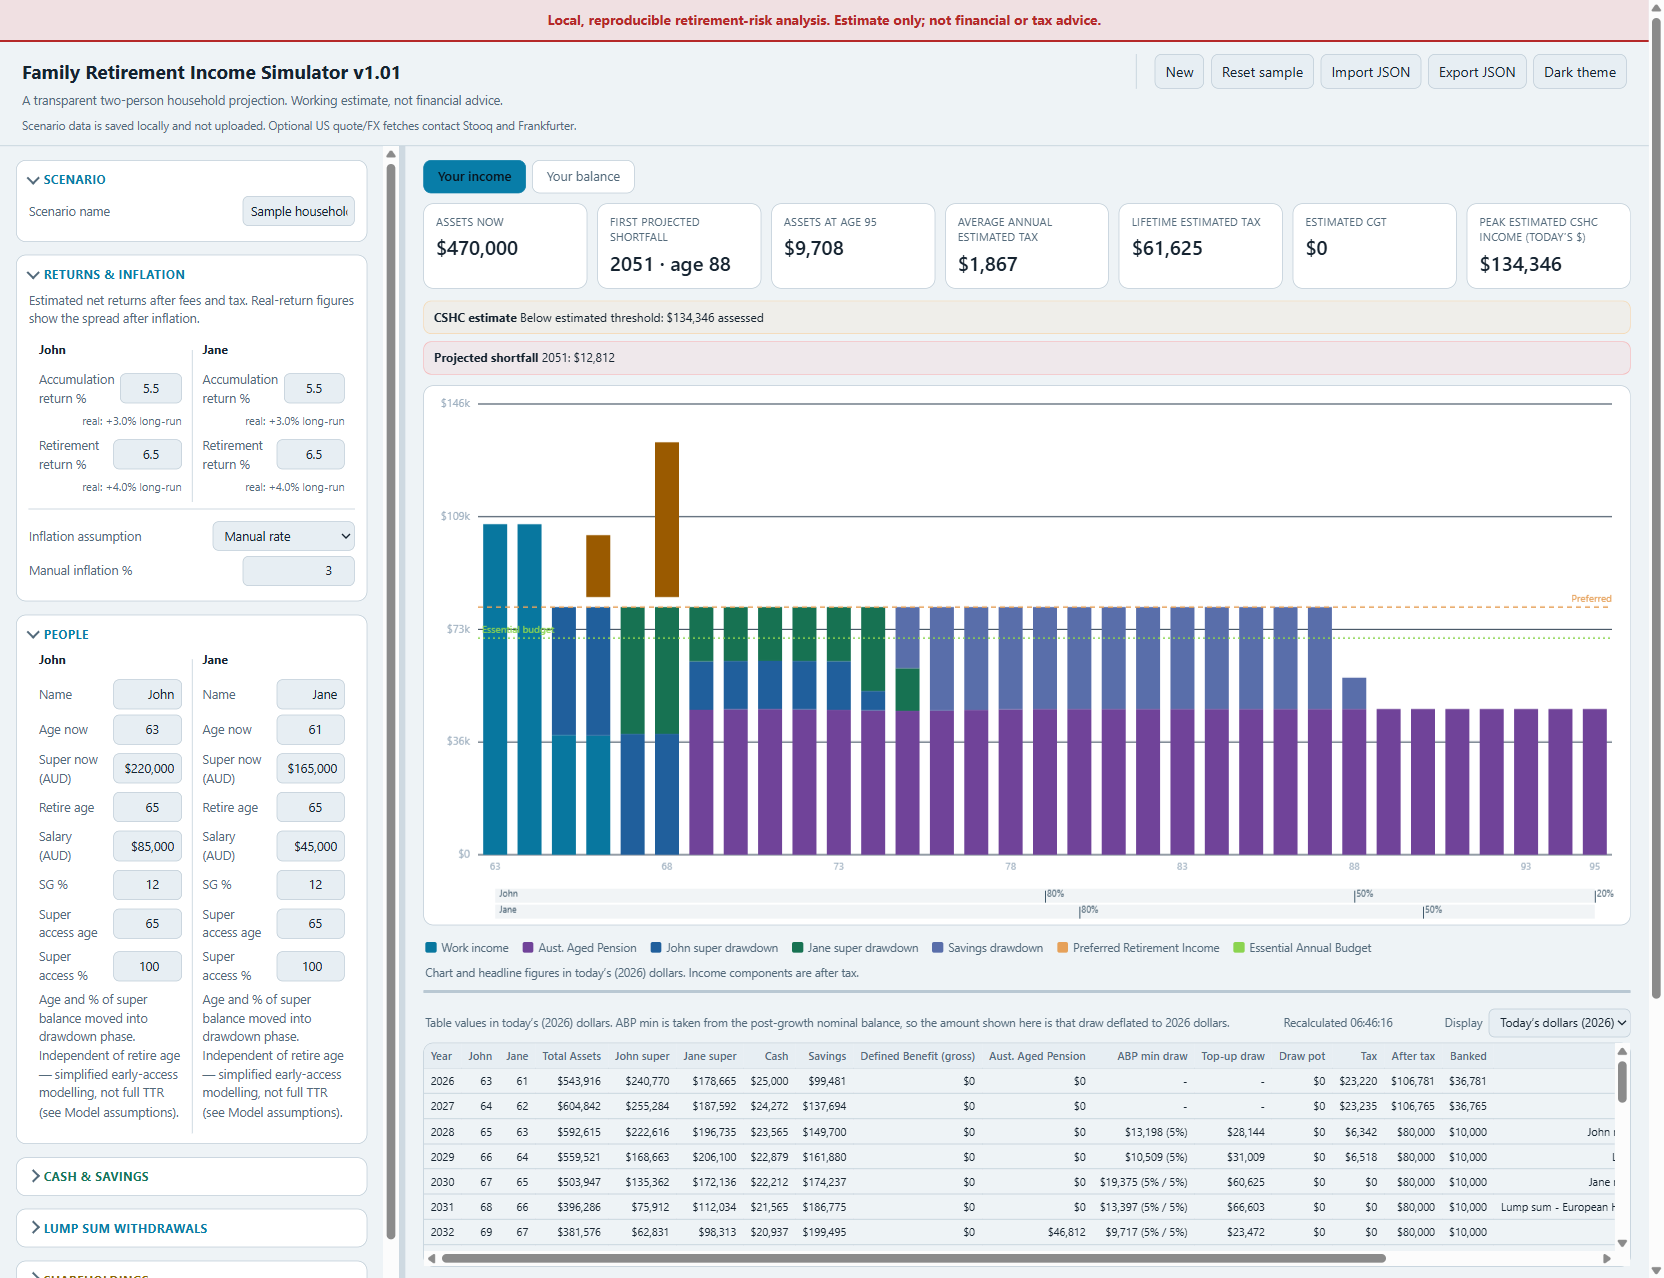
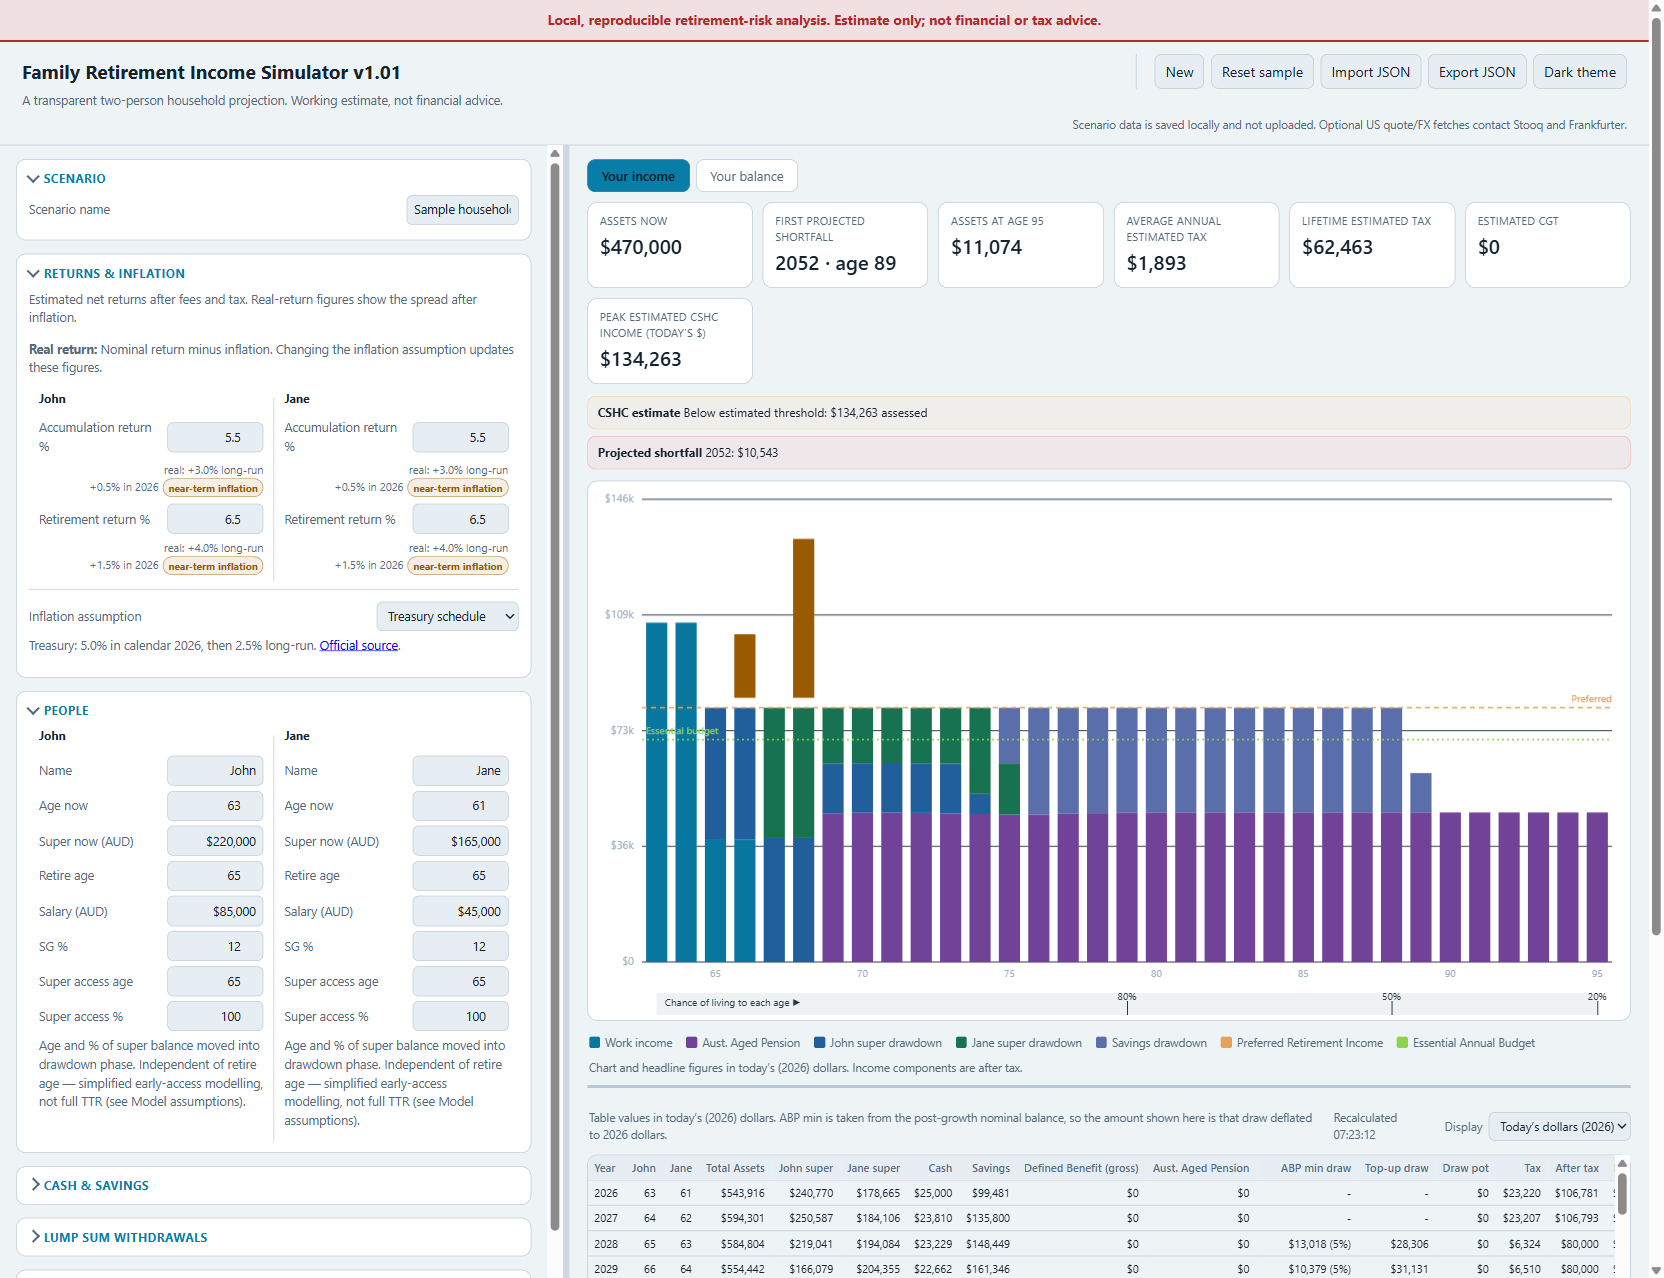
refine: align v1.01 defaults and chart presentation

diff --git a/retirement-simulator.html b/retirement-simulator.html
@@ -26,6 +26,7 @@
   header{padding:12px 22px;border-bottom:1px solid var(--line)}
   .header-row{display:flex;align-items:center;gap:18px}
   .header-actions{display:flex;gap:7px;flex-wrap:wrap;margin-left:auto;padding-left:18px;border-left:1px solid var(--line)}
+  .header-meta{max-width:620px;margin:-1px 0 0 auto;text-align:right}
   h1{margin:0;font-size:19px}
   .sub{color:var(--muted);font-size:12.5px;margin-top:3px}
   .wrap{display:grid;grid-template-columns:var(--left-w,24vw) 6px 1fr;min-height:calc(100vh - 62px)}
@@ -35,7 +36,6 @@
   .stage{padding:14px 18px;overflow-x:hidden}
   .group{margin-bottom:13px;background:var(--panel);border:1px solid var(--line);border-radius:10px;padding:10px 12px}
   .group h3{margin:0 0 8px;font-size:11.5px;letter-spacing:.06em;text-transform:uppercase;color:var(--accent)}
-  .group.uk h3{color:var(--uk)} .group.share h3{color:var(--share)} .group.pot h3{color:var(--pot)}
   summary.group-toggle{cursor:pointer;list-style:none;display:flex;align-items:center;gap:6px}
   summary.group-toggle::-webkit-details-marker{display:none}
   summary.group-toggle::before{content:'';width:7px;height:7px;border-right:2px solid var(--muted);border-bottom:2px solid var(--muted);transform:rotate(-45deg);transition:transform .15s ease;flex:0 0 auto;margin-top:-2px}
@@ -143,7 +143,7 @@
     .group{border-radius:8px}
     .shareholding summary{grid-template-columns:1fr auto}
   }
-  @media (max-width:760px){.header-row{align-items:flex-start;flex-wrap:wrap}.header-actions{margin-left:0;padding-left:0;border-left:0}}
+  @media (max-width:760px){.header-row{align-items:flex-start;flex-wrap:wrap}.header-actions{margin-left:0;padding-left:0;border-left:0}.header-meta{max-width:none;margin-top:5px;text-align:left}}
   @media (prefers-reduced-motion:reduce){
     *,*::before,*::after{scroll-behavior:auto!important;transition-duration:.01ms!important;animation-duration:.01ms!important}
   }
@@ -164,8 +164,10 @@
   </nav>
   </div>
   <div class="sub">A transparent two-person household projection. Working estimate, not financial advice.</div>
-  <p id="scenarioMessage" class="scenario-message" aria-live="polite"></p>
-  <p class="privacy-note">Scenario data is saved locally and not uploaded. Optional US quote/FX fetches contact Stooq and Frankfurter.</p>
+  <div class="header-meta">
+    <p id="scenarioMessage" class="scenario-message" aria-live="polite"></p>
+    <p class="privacy-note">Scenario data is saved locally and not uploaded. Optional US quote/FX fetches contact Stooq and Frankfurter.</p>
+  </div>
 </header>
 <div class="wrap">
   <div class="controls" id="controls">
@@ -179,6 +181,7 @@
       <summary class="group-toggle"><h3 id="returnAssumptionsHeading">Returns &amp; inflation</h3></summary>
       <div id="returnAssumptions" aria-labelledby="returnAssumptionsHeading">
       <p class="sub">Estimated net returns after fees and tax. Real-return figures show the spread after inflation.</p>
+      <p class="sub"><strong>Real return:</strong> Nominal return minus inflation. Changing the inflation assumption updates these figures.</p>
       <div id="returnFields" class="people-split"></div>
       <div class="inflation-summary">
         <label>
@@ -589,10 +592,11 @@
   }
 
   function makeSampleScenario() {
+    const startYear = new Date().getFullYear();
     return {
       schemaVersion: SCHEMA_VERSION,
       scenarioName: 'Sample household',
-      startYear: new Date().getFullYear(),
+      startYear,
       people: [
         {
           id: 'p0',
@@ -630,7 +634,10 @@
       cash: { amount: 25000, interestPct: 0, owner: 'joint' },
       savings: { amount: 60000, interestPct: 4.5, owner: 'p1' },
       shareholdings: [],
-      lumpSumWithdrawals: [],
+      lumpSumWithdrawals: [
+        { id: 'sample-lump-car', amount: 20000, reason: 'New car', year: startYear + 3, source: 'automatic' },
+        { id: 'sample-lump-holiday', amount: 50000, reason: 'European holiday', year: startYear + 5, source: 'automatic' }
+      ],
       otherIncomes: [],
       otherAssets: [],
       household: {
@@ -649,7 +656,7 @@
         showSurvival: true
       },
       assumptions: {
-        inflationMode: 'manual',
+        inflationMode: 'treasury',
         manualInflationPct: 3,
         gbpAud: 1,
         uppPct: 0,
@@ -2364,31 +2371,29 @@
 
   function drawSurvivalRibbon(ctx, rows, scenario, xScale, top) {
     if (!scenario.household.showSurvival) return;
-    const people = scenario.people.filter(person => String(person.name || '').trim());
+    const person = scenario.people[0];
     ctx.save();
-    ctx.font = '9px Segoe UI, sans-serif';
-    people.forEach((person, lane) => {
-      const y = top + lane * 16;
-      ctx.fillStyle = 'rgba(159,176,192,.14)';
-      const start = xScale(0), end = xScale(rows.length - 1);
-      ctx.fillRect(start, y, Math.max(1, end - start), 14);
-      ctx.fillStyle = getComputedStyle(document.documentElement).getPropertyValue('--chart-label').trim() || '#9FB0C0';
-      ctx.textAlign = 'left'; ctx.fillText(person.name, start + 4, y + 10);
-      const milestones = core.survivalMilestones(person.age, person.age + rows.length - 1);
-      [0.8, 0.5, 0.2, 0.05].forEach(probability => {
-        if (!Number.isInteger(milestones[probability])) return;
-        const index = Math.max(0, milestones[probability] - person.age);
-        const xx = xScale(Math.min(rows.length - 1, index));
-        ctx.fillRect(xx, y + 2, 1, 12);
-        ctx.fillText(`${Math.round(probability * 100)}%`, xx + 2, y + 10);
-      });
+    const start = xScale(0), end = xScale(rows.length - 1);
+    ctx.fillStyle = 'rgba(235,238,240,.78)';
+    ctx.fillRect(start, top, Math.max(1, end - start), 22);
+    ctx.fillStyle = '#263746';
+    ctx.font = '10px Segoe UI, sans-serif';
+    ctx.textAlign = 'left';
+    ctx.fillText('Chance of living to each age ▶', start + 8, top + 15);
+    const milestones = core.survivalMilestones(person.age, person.age + rows.length - 1);
+    [0.8, 0.5, 0.2, 0.05].forEach(probability => {
+      if (!Number.isInteger(milestones[probability])) return;
+      const xx = xScale(milestones[probability] - person.age);
+      ctx.fillRect(xx, top + 8, 1, 14);
+      ctx.textAlign = 'center';
+      ctx.fillText(`${Math.round(probability * 100)}%`, xx, top + 9);
     });
     ctx.restore();
   }
 
   function drawIncomeChart(rows, scenario) {
     const { ctx, width, height } = prepareChart();
-    const pads = { left: 54, right: 18, top: 18, bottom: scenario.household.showSurvival ? 70 : 34 };
+    const pads = { left: 54, right: 18, top: 18, bottom: scenario.household.showSurvival ? 58 : 34 };
     const plotWidth = width - pads.left - pads.right;
     const plotHeight = height - pads.top - pads.bottom;
     const endFactor = displayFactor(rows.at(-1));
@@ -2445,7 +2450,7 @@
           height: blockHeight, rowIndex, year: row.year, ages: row.ages,
           key: 'lumpSum', label: 'Lump sum withdrawal', value: lumpValue });
       }
-      if (rowIndex % 5 === 0 || rowIndex === rows.length - 1) {
+      if (row.ages[0] % 5 === 0) {
         ctx.fillStyle = '#9FB0C0';
         ctx.font = '10px Segoe UI, sans-serif';
         ctx.textAlign = 'center';
@@ -2494,7 +2499,7 @@
     ).join('') +
       `<span><i style="background:${TARGET_COLOUR}"></i>Preferred Retirement Income</span>` +
       `<span><i style="background:${BUDGET_COLOUR}"></i>Essential Annual Budget</span>`;
-    drawSurvivalRibbon(ctx, rows, scenario, x, height - 36);
+    drawSurvivalRibbon(ctx, rows, scenario, x, height - 27);
     chart.setAttribute(
       'aria-label',
       'Income funding sources chart. Salary and UK pensions form the base, then the chosen drawdown order. Use arrow keys to inspect chart segments.'
@@ -2517,7 +2522,7 @@
 
   function drawBalanceChart(rows, scenario) {
     const { ctx, width, height } = prepareChart();
-    const pads = { left: 54, right: 18, top: 18, bottom: scenario.household.showSurvival ? 70 : 42 };
+    const pads = { left: 54, right: 18, top: 18, bottom: scenario.household.showSurvival ? 58 : 42 };
     const plotWidth = width - pads.left - pads.right;
     const plotHeight = height - pads.top - pads.bottom;
     const maximum = Math.max(1, ...rows.map(row => row.totalAssets * displayFactor(row))) * 1.08;
@@ -2552,7 +2557,7 @@
       ctx.stroke();
     });
 
-    drawSurvivalRibbon(ctx, rows, scenario, x, height - 36);
+    drawSurvivalRibbon(ctx, rows, scenario, x, height - 27);
 
     drawBalanceEventMarkers(
       ctx,